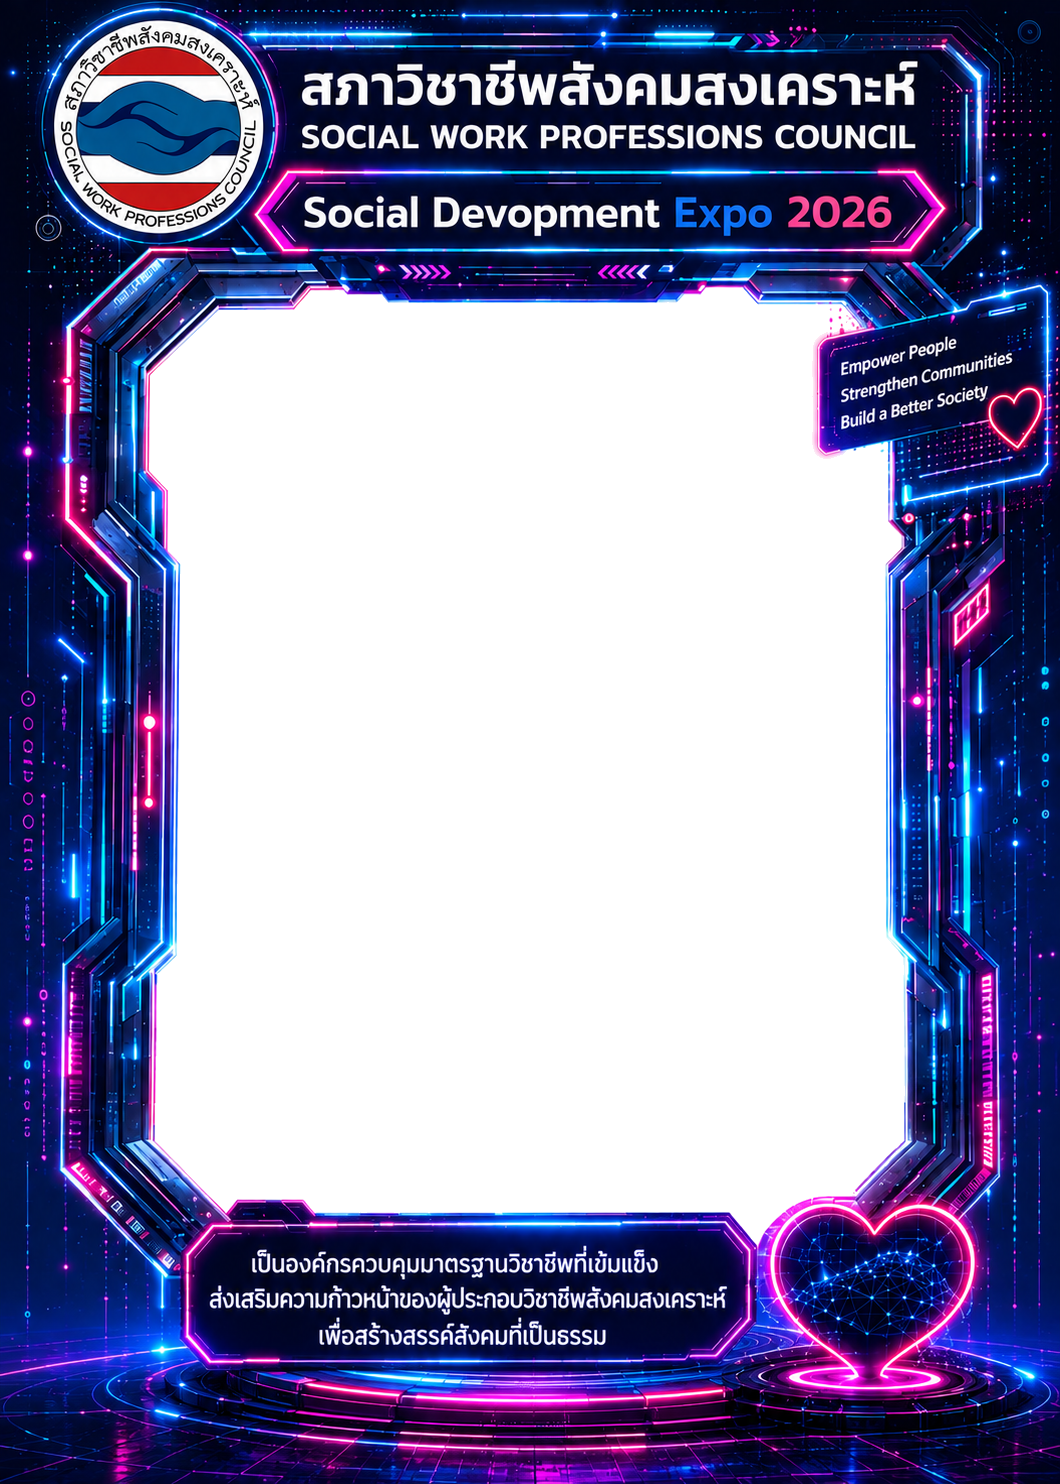
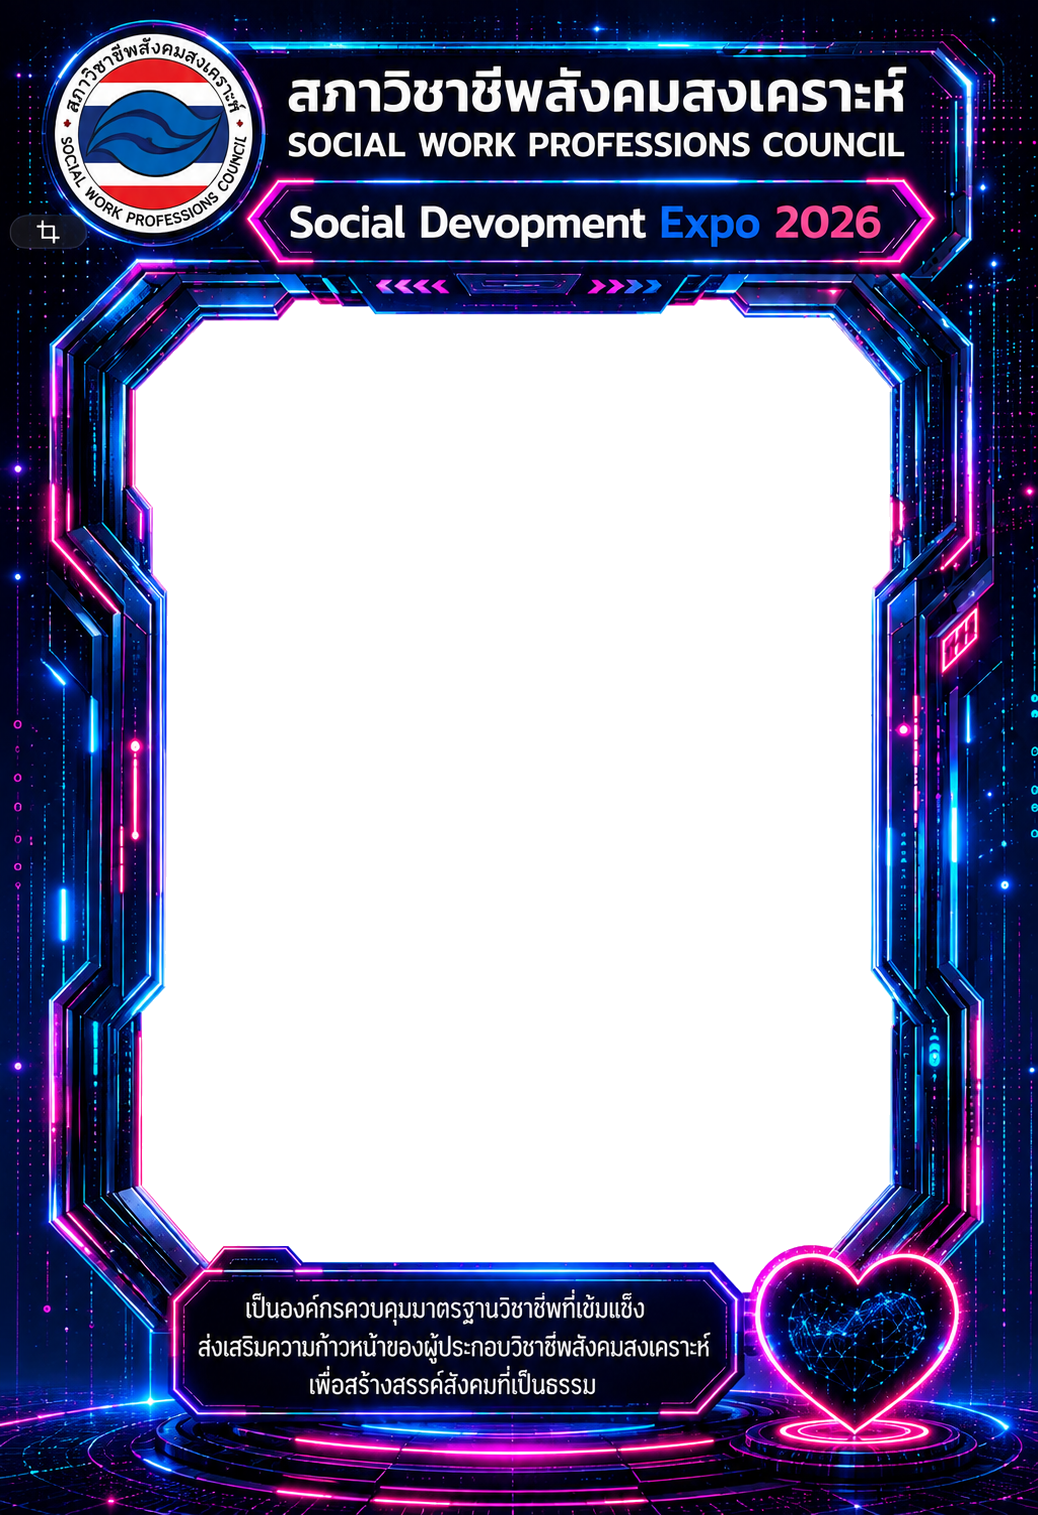
Add files via upload

diff --git a/app.js b/app.js
@@ -3,11 +3,11 @@
 
   // ----- Config -----
   const FRAME_SRC = 'assets/frame.png';
-  const OUTPUT_W = 1060;
-  const OUTPUT_H = 1484;
-  const COUNTDOWN_FROM = 3;
+  const OUTPUT_W = 1038;
+  const OUTPUT_H = 1515;
+  const COUNTDOWN_FROM = 3; // unused now (capture is instant) — kept in case countdown is wanted back
   // Photo window bounding box — must match assets/frame.png exactly.
-  const WINDOW = { x: 149, y: 288, w: 755, h: 956 };
+  const WINDOW = { x: 136, y: 300, w: 755, h: 991 };
 
   // ----- Elements -----
   const video = document.getElementById('video');
@@ -87,43 +87,16 @@
     startCamera(facingMode);
   });
 
-  // ----- Countdown + capture -----
-  captureBtn.addEventListener('click', async () => {
+  // ----- Capture (instant, no countdown) -----
+  captureBtn.addEventListener('click', () => {
     if (isCapturing) return;
     isCapturing = true;
     captureBtn.disabled = true;
-    await runCountdown(COUNTDOWN_FROM);
     composite();
     isCapturing = false;
     captureBtn.disabled = false;
     showScreen('result');
   });
-
-  function runCountdown(from) {
-    return new Promise((resolve) => {
-      let n = from;
-      countdownEl.textContent = n;
-      countdownEl.classList.remove('show');
-      void countdownEl.offsetWidth; // restart animation
-      countdownEl.classList.add('show');
-
-      const tick = () => {
-        n -= 1;
-        if (n <= 0) {
-          countdownEl.classList.remove('show');
-          resolve();
-          return;
-        }
-        countdownEl.textContent = n;
-        countdownEl.classList.remove('show');
-        void countdownEl.offsetWidth;
-        countdownEl.classList.add('show');
-        setTimeout(tick, 1000);
-      };
-      setTimeout(tick, 1000);
-    });
-  }
-
   // ----- Composite photo + frame -----
   function composite() {
     workCanvas.width = OUTPUT_W;
